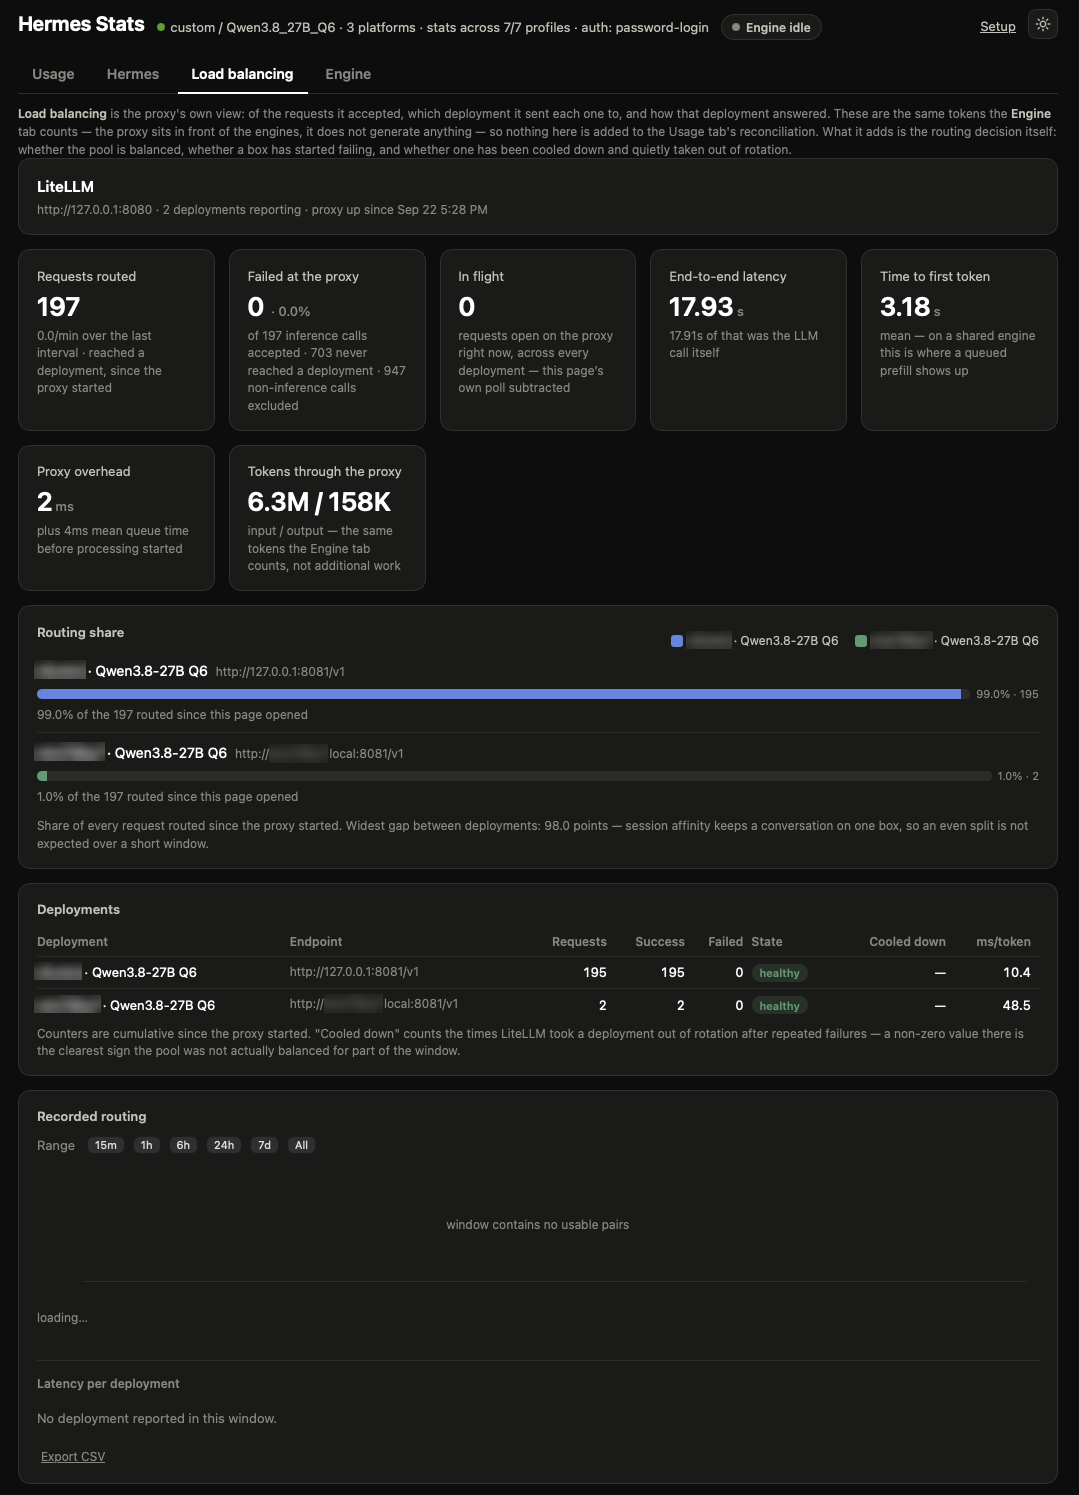
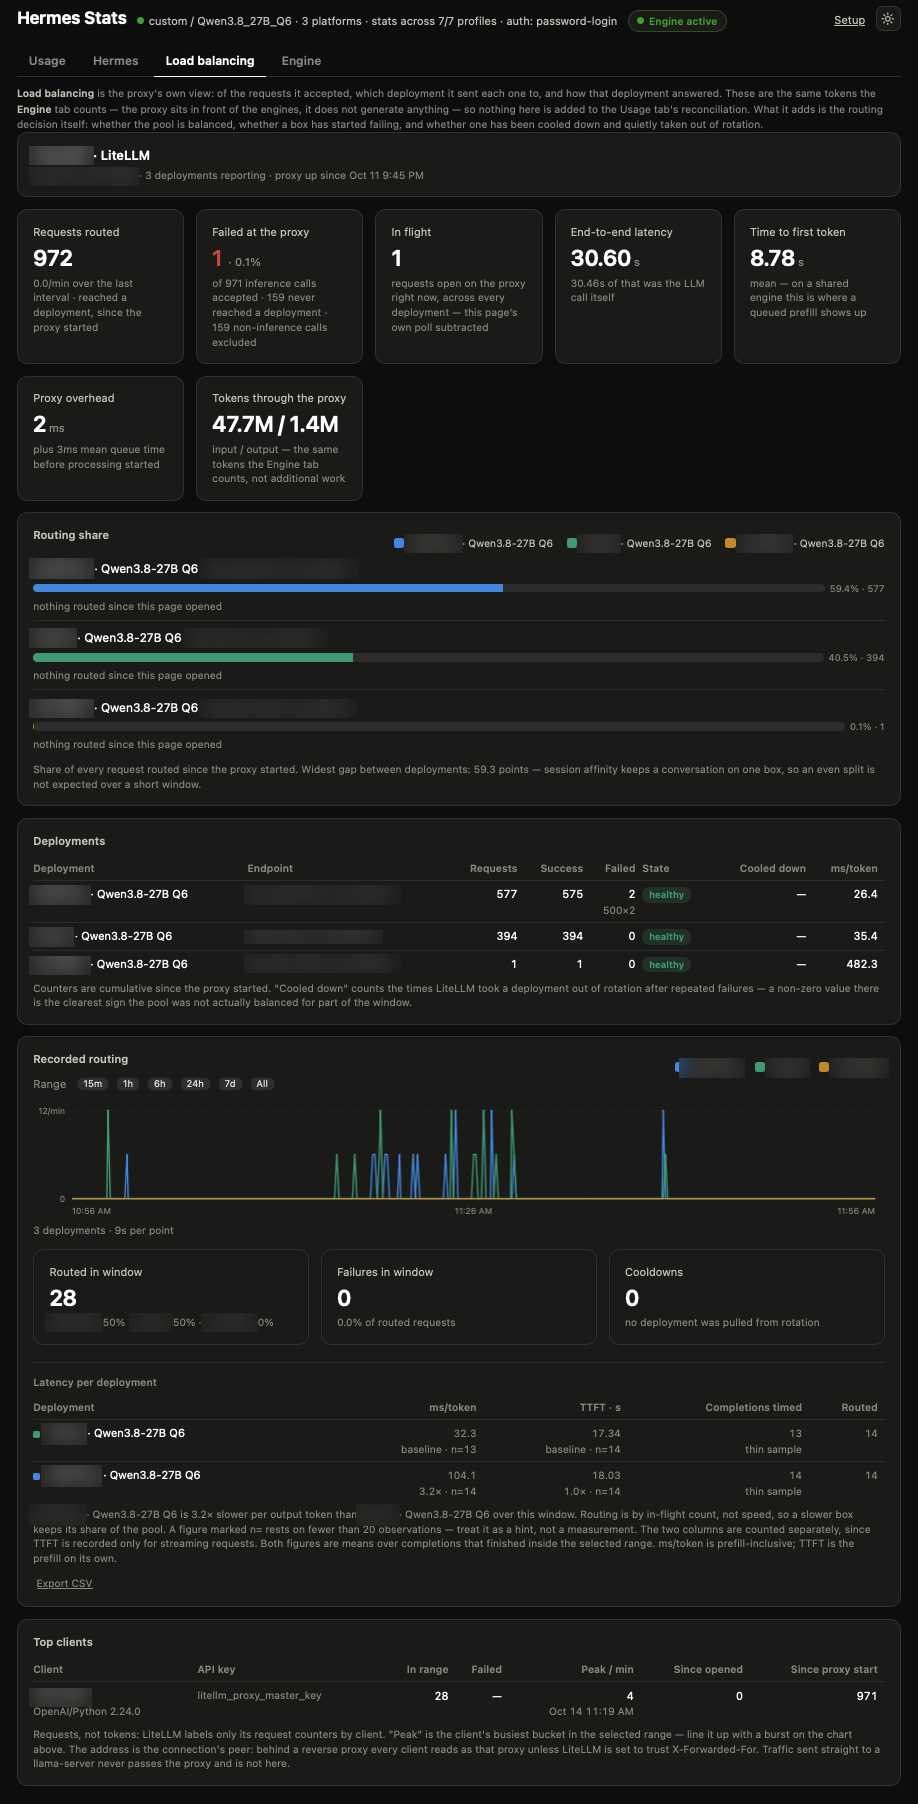
Refresh the Load balancing screenshot and document latency per deployment
New screenshot with every host name and IP blurred, showing the Recorded
routing, Latency per deployment and Top clients cards. The README gains a
Latency per deployment bullet (ranking, ratios to the fastest, separate
sample counts, the thin-sample marking and what the note under the table
says) and its image caption lists the newer cards.

diff --git a/README.md b/README.md
@@ -98,7 +98,7 @@ Zero runtime dependencies. Node ≥ 18.
 
 ### Load balancing tab (LiteLLM)
 
-![Load balancing tab: requests routed, latency, routing share and per-deployment health](docs/screenshots/load-balancing.png)
+![Load balancing tab: requests routed, latency, routing share, per-deployment health, recorded routing, latency per deployment and top clients](docs/screenshots/load-balancing.png)
 
 Hidden unless a LiteLLM proxy is enabled under Setup → Load balancing. A
 proxy is a *router*, not a worker: the tokens it counts are the same tokens
@@ -127,6 +127,18 @@ routing decision.
   Engine tab, over a per-deployment request-rate chart with a window summary
   and CSV export. A proxy restart breaks the line rather than spiking it, and
   a collector outage is shaded rather than drawn as zero
+- **Latency per deployment** — inside Recorded routing, on the same range:
+  mean latency per output token and mean time to first token for each
+  deployment, ranked fastest first, each with its ratio to the fastest
+  ("baseline", "3.2×"), plus completions timed and requests routed.
+  With LiteLLM's `least-busy` strategy, routing balances on in-flight count,
+  not speed, so an evenly split pool can still hide a box that is several
+  times slower; this table is where that shows. A note under it names the
+  slowest deployment and says whether its gap is in starting (TTFT) or
+  generating (ms/token). Each column carries its own sample count, since TTFT is only
+  recorded for streaming requests; a mean built from fewer than 20 is marked
+  `n=` and "thin sample" rather than shown as a measurement. ms/token is
+  prefill-inclusive; TTFT is the prefill on its own
 - **Top clients** — who sent the traffic: requests per client (address,
   user agent and API key, from LiteLLM's `client_ip` / `user_agent` /
   `api_key_alias` labels) over the Recorded routing range, each client's
